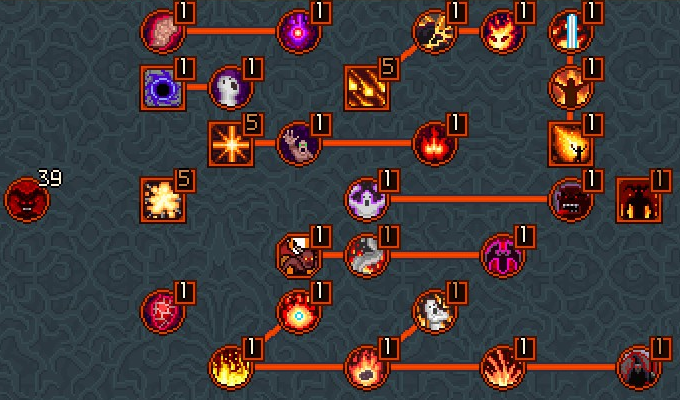
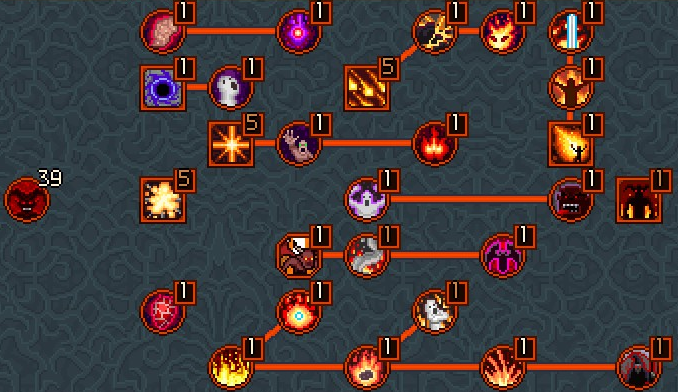
Trees: Fixed the janky looking Tree background images with regard to how the Skill Buttons were laid over them (such as the stretching last column); it's still not perfect but this looks more presentable

Changed region(s): [[0.1858, 0.0, 1.0, 1.0], [0.1858, 0.6735, 0.3097, 0.8571], [0.0, 0.398, 0.0929, 0.5816]]

diff --git a/ChroniCalc/TreeTableLayoutPanel.cs b/ChroniCalc/TreeTableLayoutPanel.cs
@@ -38,6 +38,17 @@ namespace ChroniCalc
             }
 
             //Size
+            /*FOR FUTURE REFERENCE: Determining TLP Width/Height based on Control Count and ControlWidth/ControlHeight
+             * (see: https://stackoverflow.com/questions/37415113/creating-same-size-cells-with-tablelayoutpanel)
+
+             * (columns * cellWidth + paddingLeft + paddingRight, rows * cellHeight + paddingTop + paddingBottom)
+             * width = this.ColumnCount * cellWidth + 0 + 0
+             * height = this.RowCount + cellHeight + 0 + 0
+
+             * you either have to:
+             *  set the cellWidth/cellHeight to meet the needs of the TTLP width/height OR
+             *  set the width/height after all cells are populated in LoadTree() to meet the needs of the cellWidth/cellHeight
+			 */
             this.Size = new System.Drawing.Size(width, height);
 
             //Assign the Parent Control

diff --git a/ChroniCalc/MainForm.cs b/ChroniCalc/MainForm.cs
@@ -126,13 +126,13 @@ namespace ChroniCalc
                     if (i == 4)
                     {
                         //The last tree added is the Mastery tree and has some different properties
-                        ttlp = new TreeTableLayoutPanel(pnlTrees, 11, 7, 516, 274);
+                        ttlp = new TreeTableLayoutPanel(pnlTrees, 11, 7, 506, 273);
                         ttlp.Name = "Mastery";
                     }
                     else
                     {
                         //Create a new Class Skill tree
-                        ttlp = new TreeTableLayoutPanel(pnlTrees, 10, 7, 475, 279);
+                        ttlp = new TreeTableLayoutPanel(pnlTrees, 10, 7, 470, 273);
                     }
 
                     treePanels.Add(ttlp);
